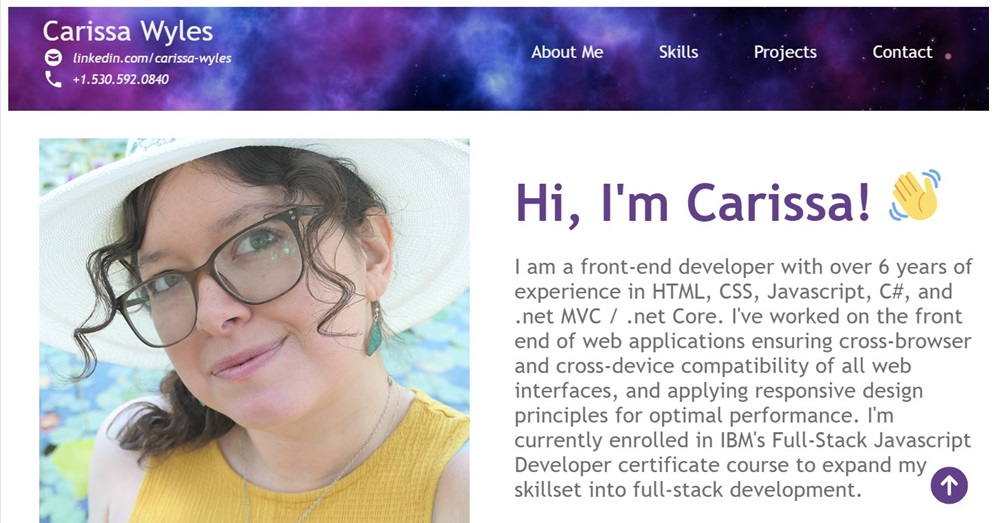
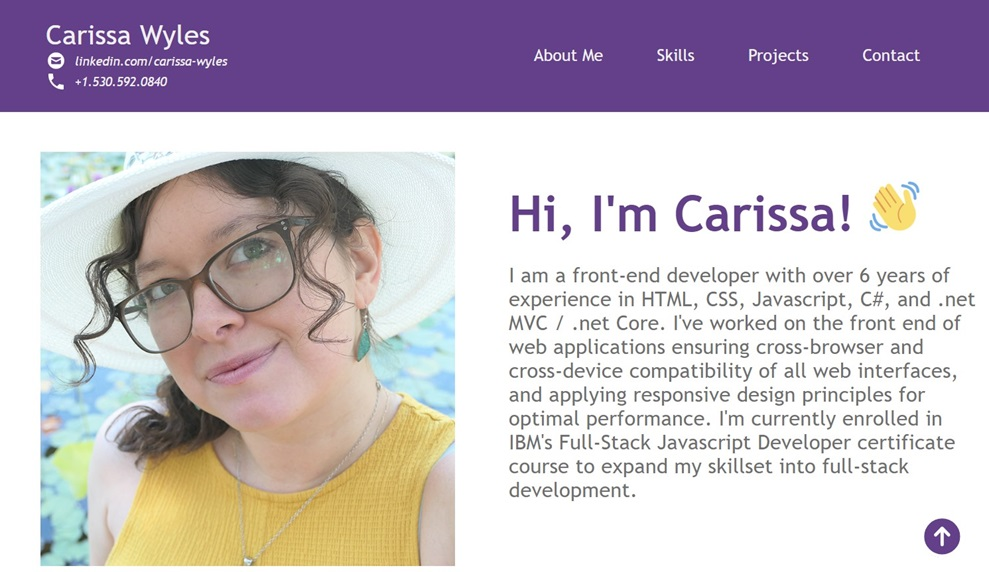
minor css edits, updated photos

diff --git a/styles.css b/styles.css
@@ -5,15 +5,12 @@
 
 /* CSS */
 html{scroll-behavior: smooth; overflow-x: hidden;}
-body {overflow: hidden; font-family: 'Trebuchet MS',  Arial, sans-serif;}
+body {overflow: hidden; font-family: 'Trebuchet MS',  Arial, sans-serif; margin: 0;}
 
 /* Navigation Bar */
-
 #home {
-  background: var(--main-color) url('images/nebula-nav.jpg') center center no-repeat;
-  background-size: cover;
+  background: var(--main-color);
   padding: 1.5rem;
-  margin: -1rem;
   overflow: hidden;
   display: flex;
   justify-content: space-between;
@@ -64,7 +61,7 @@ body {overflow: hidden; font-family: 'Trebuchet MS',  Arial, sans-serif;}
   }
   .nav_item{
 	  margin: 0;
-	  padding: .25em 0;
+	  padding: 0;
   }
 }
 
@@ -236,6 +233,7 @@ input, textarea {
 }
 fieldset { padding: 2rem; border: thin solid white; width: 50%;}
 
+@media screen and (max-width: 560px) {fieldset{width: 69%;}}
 /* Buttons */
 
 button, .btn {
